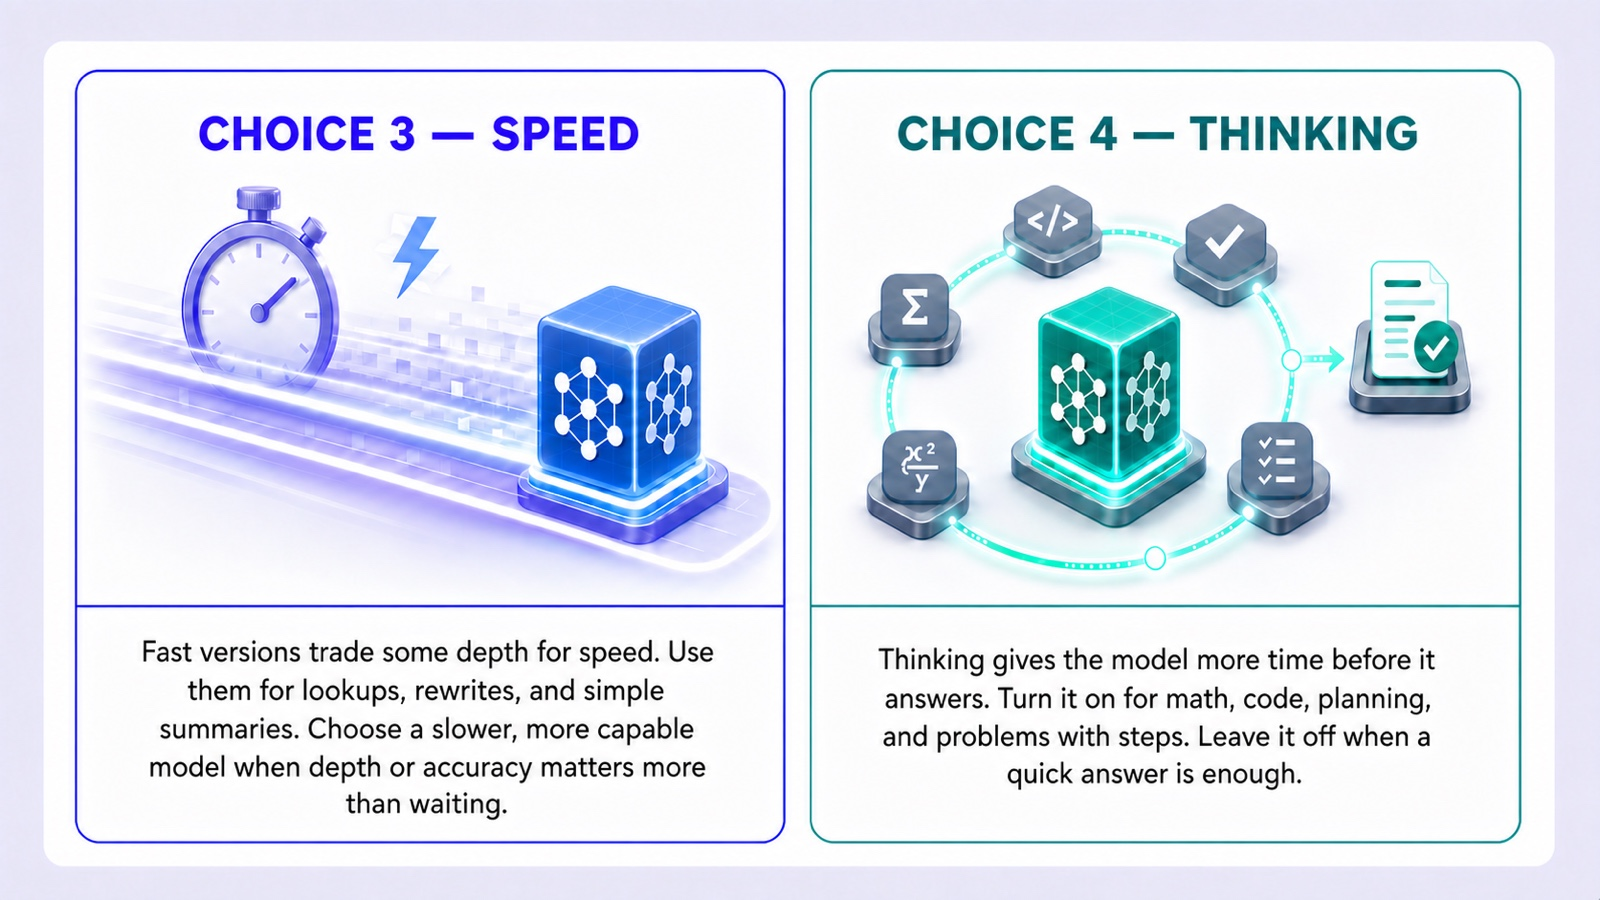
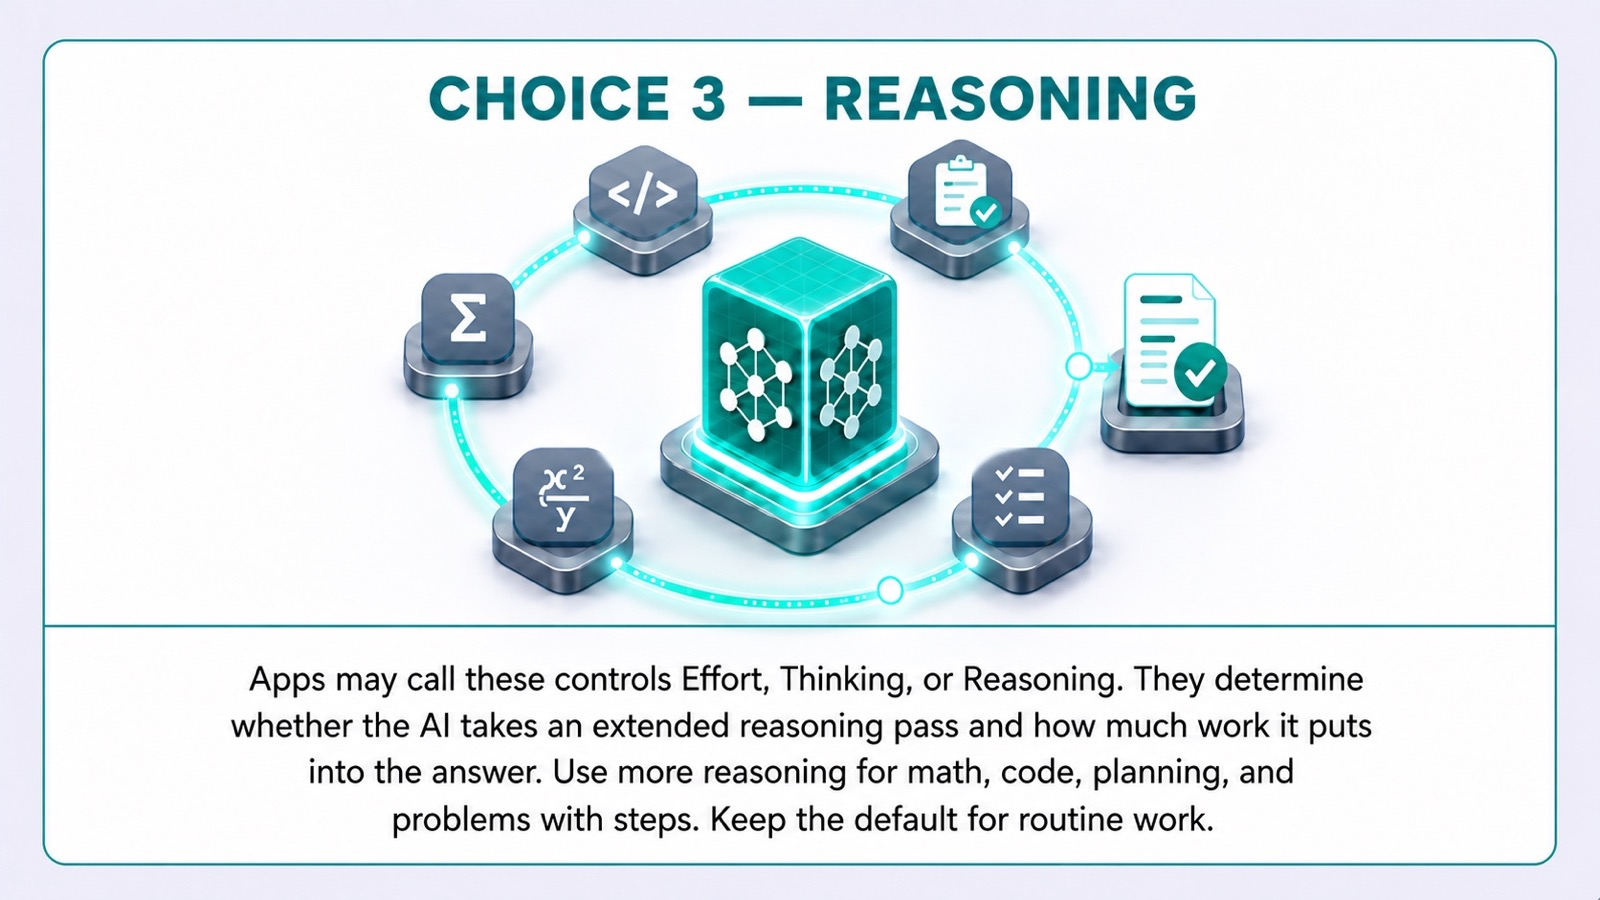
Simplify Your Choices to three decisions with vendor-neutral labels
The lesson's four choices collapse to three: app, model, and reasoning
(noting apps may call it Effort, Thinking, or Reasoning). TRY IT
answers become Default / More reasoning / Research, the answer-workflows
card list gives way to the regenerated illustrations (v3 with matching
alt text), and the age-rules note becomes its own kicker section.

diff --git a/index.html b/index.html
@@ -7338,94 +7338,75 @@ function ChoosingModelSection(props) {
   const [taskAnswers, setTaskAnswers] = useState({});
   const TASKS = [{
     task: "Rewrite this paragraph so it sounds friendlier",
-    answer: "Quick", explain: "This is a straightforward rewrite. The default or fast option can handle it without a longer reasoning pass or a research workflow."
+    answer: "Default", explain: "This is a straightforward rewrite. The default can handle it without more reasoning or a research workflow."
   }, {
     task: "Analyze whether my business plan has any logical flaws",
-    answer: "Thinking", explain: "Finding logical flaws means reasoning through connected claims and checking how they fit together. Use a more capable model or a thinking option if your app offers one."
+    answer: "More reasoning", explain: "Finding logical flaws means working through connected claims and checking how they fit together. Increase the reasoning if your app offers that choice."
   }, {
     task: "Compare the current costs, financial aid, graduation rates, and housing policies at three colleges, using official sources",
-    answer: "Deep Research", explain: "The facts are current, spread across many sources, and important enough to document. Deep Research is built for a multi-step, cited comparison like this."
+    answer: "Research", explain: "The facts are current, spread across many sources, and important enough to document. A research workflow is built for a multi-step, cited comparison like this."
   }, {
     task: "Give me 10 ideas for a YouTube channel name",
-    answer: "Quick", explain: "Creative brainstorming is about breadth and speed. A quick answer produces options fast, which is exactly what this job needs."
+    answer: "Default", explain: "Creative brainstorming is about producing options, not solving a difficult chain of logic. The default is enough."
   }, {
     task: "Solve this multi-step calculus problem and check every step",
-    answer: "Thinking", explain: "Multi-step math benefits from extra reasoning and self-checking. Thinking can reduce mistakes, although you should still verify the result."
+    answer: "More reasoning", explain: "Multi-step math benefits from extra reasoning and self-checking. More reasoning can reduce mistakes, although you should still verify the result."
   }];
-  const ANSWER_WORKFLOWS = [
-    { label: "Regular chat", body: "Answers quickly from the model\u2019s trained knowledge and the context in your conversation. Best for explanations, drafting, brainstorming, and everyday help." },
-    { label: "Web search", body: "Checks the live web for a focused, current question and returns a concise answer with source links. Best when one fact or update needs checking." },
-    { label: "Deep Research", body: "Plans a multi-step search, reads and compares many sources, then produces a structured report with citations. Best for broad, source-heavy questions with real stakes." }
-  ];
   const WHAT_CHANGED = [
     { label: "Model", body: "The trained LLM doing the work. Changing it changes the brain behind the answer." },
-    { label: "Mode", body: "The workflow and tools around the model. Deep Research adds planning, searching, reading, comparing, and citations." },
+    { label: "Reasoning", body: "How much work the model does before answering. Apps may call it Effort, Thinking, or Reasoning." },
     { label: "Temperature", body: "The sampling setting that changes how predictable or varied the model\u2019s word choices are." }
   ];
   return /*#__PURE__*/React.createElement("div", null,
     /*#__PURE__*/React.createElement(LessonHeader, { sectionId: "choosemodel" }),
     /*#__PURE__*/React.createElement(BodyP, null,
-      "Most apps ask you to make one big choice: which app to use. Pick Spotify, and it handles the rest. AI works differently. First you choose the app. Then you may choose which model does the work, whether to favor speed, and whether to give the model more time to think."),
+      "Most apps ask you to make one big choice: which app to use. Pick Spotify, and it handles the rest. AI works differently. First you choose the app. Next, you may choose which model to use and how much reasoning the AI applies before answering."),
     /*#__PURE__*/React.createElement(BodyP, null,
-      "The names change constantly. The decisions do not. Learn the four choices: app, model, speed, and thinking. Then you can make sense of almost any AI menu."),
+      "You won\u2019t adjust all three every time. The default handles most jobs. But when the work is harder or more important, knowing the choices lets you change the right thing."),
+    /*#__PURE__*/React.createElement(SectionKicker, null, "AGE RULES MATTER"),
     /*#__PURE__*/React.createElement(BodyP, null,
-      "You won\u2019t adjust all four every time. The default handles most jobs. But when the work is harder, more important, or time-sensitive, knowing the choices lets you change the right thing."),
-    /*#__PURE__*/React.createElement(Callout, { icon: "\u26a0\ufe0f", label: "Age rules matter." },
       "If you\u2019re under 18, check an app\u2019s age requirements before using it. As of August 2026, ChatGPT requires parental permission for users ages 13\u201317, Gemini permits many teen accounts but limits some features, and Claude.ai requires users to be 18."),
     /*#__PURE__*/React.createElement(SectionKicker, null, "YOUR CHOICES"),
     /*#__PURE__*/React.createElement(BodyP, null,
-      "Some apps show all four. Some show only one or two, and some make the choices for you. The labels differ, but the decisions remain."),
+      "Some apps show all three. Some show only one or two, and some make the choices for you. The labels differ, but the decisions remain."),
     /*#__PURE__*/React.createElement("img", {
-      src: "illustrations/your-choices-where-what.jpg?v=2",
-      alt: "Choice 1, Which App: choose an available home-base app that fits your tools and work, and use a second app when its strengths fit the job. Choice 2, Which Model: each app offers a family of models; use the everyday model for most tasks and the most capable model for hard, long, or graded work.",
+      src: "illustrations/your-choices-where-what.jpg?v=3",
+      alt: "Choice 1, Which App: choose an available home-base app that fits your tools and work, and use a second app when its strengths fit the job. Choice 2, Which Model: each app offers a family of models; use the everyday model for most tasks and its strongest model for difficult work.",
       style: { display: "block", width: "100%", maxWidth: 880, margin: "8px auto 16px", borderRadius: 12 }
     }),
     /*#__PURE__*/React.createElement("img", {
-      src: "illustrations/your-choices-how-works.jpg?v=2",
-      alt: "Choice 3, Speed: use fast versions for lookups, rewrites, and simple summaries, and choose a slower, more capable model when depth or accuracy matters more than waiting. Choice 4, Thinking: turn it on for math, code, planning, and problems with steps, and leave it off when a quick answer is enough.",
+      src: "illustrations/your-choices-how-works.jpg?v=3",
+      alt: "Choice 3, Reasoning: apps may call these controls Effort, Thinking, or Reasoning. They determine whether the AI takes an extended reasoning pass and how much work it puts into the answer. Use more reasoning for math, code, planning, and problems with steps. Keep the default for routine work.",
       style: { display: "block", width: "100%", maxWidth: 880, margin: "0 auto 24px", borderRadius: 12 }
     }),
-    /*#__PURE__*/React.createElement(SectionKicker, null, "WHEN THE DEFAULT ISN\u2019T ENOUGH"),
+    /*#__PURE__*/React.createElement(SectionKicker, null, "WHEN THE QUESTION REQUIRES RESEARCH"),
     /*#__PURE__*/React.createElement(BodyP, null,
-      "The default or fast option handles everyday questions, rewrites, and summaries. When the work is difficult or important, look for a more capable model or a thinking or reasoning option. If your app does not show one, it may be making that choice for you."),
+      "Some AI apps offer a ",
+      /*#__PURE__*/React.createElement("strong", null, "Research"),
+      " tool. Instead of producing one quick answer, it plans a multi-step search, gathers sources, compares what it finds, and returns a documented report. The name and availability vary by app."),
     /*#__PURE__*/React.createElement(BodyP, null,
-      "Those are not always the same control. Changing the model chooses a different LLM. Thinking asks the app to spend more effort before it answers, although each app implements that differently. The product names matter less than the labels describing what each option does."),
+      "Research takes longer because the job is larger. Use it when the question would otherwise send you through many tabs or when the final answer needs a trail of sources. For a quick current fact, ordinary web search is faster. A cited report still needs your review, so check the sources before relying on it."),
+    /*#__PURE__*/React.createElement(SectionKicker, null, "TEMPERATURE"),
     /*#__PURE__*/React.createElement(BodyP, null,
-      "More effort can improve reasoning, but it is not a truth switch. If the model is missing information, using old information, or relying on a bad source, thinking longer will not fix that."),
-    /*#__PURE__*/React.createElement(SectionKicker, null, "A MODE CHANGES THE WORKFLOW"),
-    /*#__PURE__*/React.createElement(BodyP, null,
-      "A model is the LLM doing the work. A mode changes the workflow and tools around it. ",
-      /*#__PURE__*/React.createElement("strong", null, "Deep Research"),
-      " is the clearest example: instead of producing one quick answer, it plans a multi-step search, gathers sources, compares what it finds, and returns a documented report."),
-    /*#__PURE__*/React.createElement(ShowcaseBox, {
-      headline: "Chat, search, or Deep Research?",
-      intro: "Use the lightest workflow that fits the question.",
-      marginBottom: 24
-    },
-      /*#__PURE__*/React.createElement(NumberedColumns, { cap3: true, items: ANSWER_WORKFLOWS })),
-    /*#__PURE__*/React.createElement(BodyP, null,
-      "Deep Research takes longer because the job is larger. Use it when the question would otherwise send you through many tabs or when the final answer needs a trail of sources. For a quick current fact, ordinary web search is faster. A cited report still needs your review, so check the sources before relying on it."),
-    /*#__PURE__*/React.createElement(SectionKicker, null, "THE SETTING YOU USUALLY CAN\u2019T SEE"),
-    /*#__PURE__*/React.createElement(BodyP, null,
-      "One more setting can change an answer even when you never see it. Back in One More Thing you met the weighted drawing: every token holds tickets equal to its probability, and the model draws one. ",
+      "When AI predicts the next token, several choices may be possible. More likely tokens have a better chance of being selected, but they do not always win. ",
       /*#__PURE__*/React.createElement("strong", null, "Temperature"),
-      " changes that drawing. Lower temperature concentrates the chances around the most likely words, making answers more predictable. Higher temperature spreads the chances farther down the list, creating more variation, more surprise, and sometimes more nonsense."),
+      " changes how widely the model considers those possibilities. Lower temperature concentrates the chances around the most likely words, making answers more predictable. Higher temperature spreads the chances farther down the list, creating more variation, more surprise, and sometimes more nonsense."),
     /*#__PURE__*/React.createElement(BodyP, null,
-      "You usually will not see temperature in a consumer AI app. The app sets it, while developers may be able to change it in the tools used to build AI products. You can ask for one best answer or ten very different options, but that instruction is not the temperature dial itself."),
+      "AI companies set the temperature behind the scenes. Most users never see or control it."),
     /*#__PURE__*/React.createElement(ShowcaseBox, {
-      headline: "Model, mode, and temperature are different.",
+      headline: "Model, reasoning, and temperature are different.",
       intro: "Three different reasons an answer can change.",
       marginBottom: 24
     },
       /*#__PURE__*/React.createElement(NumberedColumns, { cap3: true, items: WHAT_CHANGED })),
     /*#__PURE__*/React.createElement(BodyP, null,
-      /*#__PURE__*/React.createElement("strong", null, "The model changes the brain. A mode changes the workflow. Temperature changes how the model chooses its words.")),
+      /*#__PURE__*/React.createElement("strong", null, "The model changes the brain. Reasoning changes how much work it does. Temperature changes how the model chooses its words.")),
     closeBoard("choosemodel"),
     /*#__PURE__*/React.createElement(InteractiveBox, {
       variant: "try",
       surface: "mint",
-      title: "Match the Job to the Setting",
-     lead: "Choose Quick, Thinking, or Deep Research. If your app does not show a choice, it may be choosing for you."},
+      title: "Match the Job to the Choice",
+     lead: "Choose Default, More reasoning, or Research. If your app does not show a choice, it may be choosing for you."},
       /*#__PURE__*/React.createElement(InnerCard, { style: { display: "flex", flexDirection: "column" } },
         TASKS.map(function(t, i) {
           var answered = taskAnswers[i] !== undefined;
@@ -7449,7 +7430,7 @@ function ChoosingModelSection(props) {
             answered: answered,
             correct: correct,
             feedback: t.explain
-          }, [PillButton("Quick"), PillButton("Thinking"), PillButton("Deep Research")]);
+          }, [PillButton("Default"), PillButton("More reasoning"), PillButton("Research")]);
         })
       )),
     /*#__PURE__*/React.createElement(LessonRule, null),
